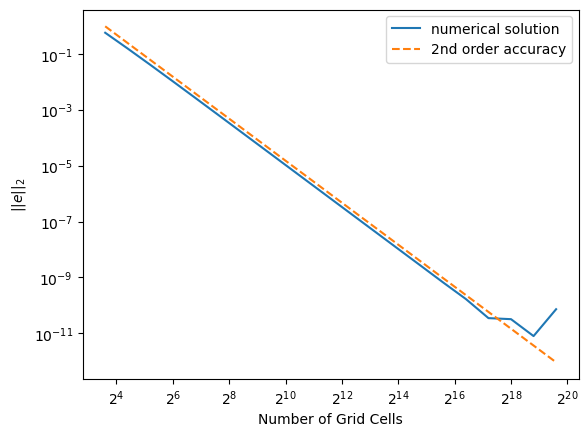
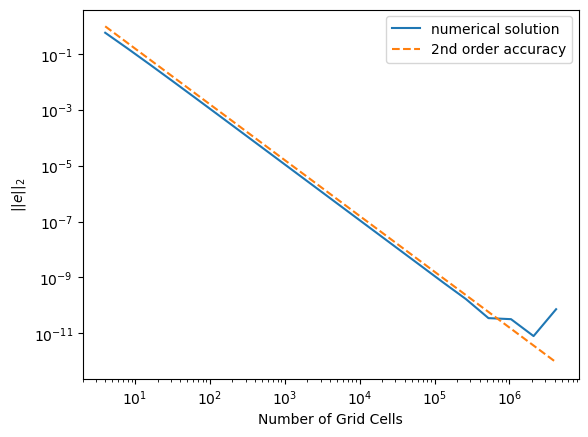
updated accuracy plots

diff --git a/plots/accuracy.py b/plots/accuracy.py
@@ -38,7 +38,7 @@ class AccuracyPlot:
 
     def plot(self, outfile=None):
         fig, ax = plt.subplots()
-        ax.semilogy(self._levels, self._data, label='numerical solution')
+        ax.loglog(self._levels, self._data, label='numerical solution')
 
         if self._ref:
             for k, v in self._ref.items():
@@ -51,13 +51,13 @@ class AccuracyPlot:
                 else:
                     print('Not setup for order of accuracy greater than 20')
                     sys.exit()
-                ax.semilogy(self._levels, v, '--', label=label)
+                ax.loglog(self._levels, v, '--', label=label)
         plt.legend()
 
         ax.set_xlabel(self._xlabel)
         ax.set_ylabel(self._ylabel)
 
-        ax.xaxis.set_ticklabels([f"$2^{{{i}}}$" for i in self._levels][::2])
+        # ax.xaxis.set_ticklabels([f"$2^{{{i}}}$" for i in self._levels][::2])
         ax.set_title(self._title)
         
         if outfile:

diff --git a/plots/accuracy_linear/plot_errors.py b/plots/accuracy_linear/plot_errors.py
@@ -18,7 +18,7 @@ def load_levels():
     levels = []
     with open('levels.txt', 'r') as file:
         while line := file.readline():
-            levels.append(int(line.rstrip('\n')))
+            levels.append(2**int(line.rstrip('\n')))
     return tuple(levels)
 
 if __name__ == '__main__':
